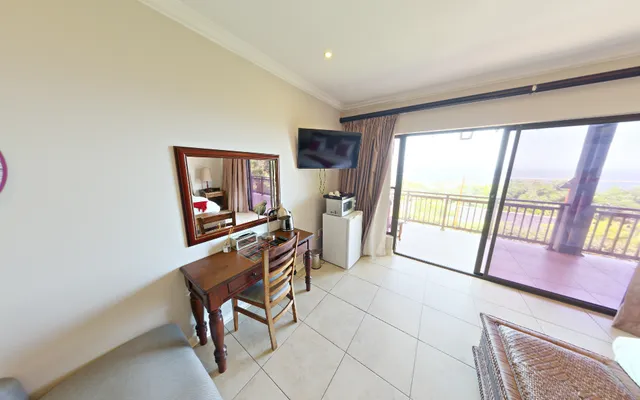
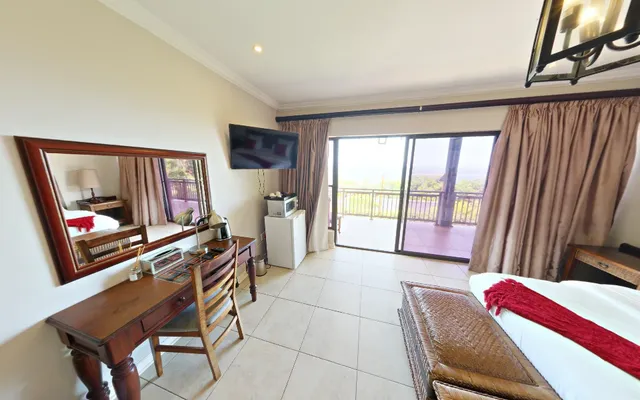
Enable the 360° rooms
- opening views chosen to show the floor (Sunlit Open Living 60°, hotel
  suite 240°, seaview suite 20°), wider default view, looking a little down
- sunlight on new tiles no longer burns out to white

Claude-Session: https://claude.ai/code/session_013FKkYB4U9Gt1xrvg8SHD61

diff --git a/src/components/PanoScene.tsx b/src/components/PanoScene.tsx
@@ -69,6 +69,8 @@ void main() {
   vec3 photo = texture2D(uPano, uv).rgb;
   vec3 m = texture2D(uMask, uv).rgb;
   float shade = texture2D(uShade, uv).r * 2.0;
+  // sunlight brightens the new finish without burning it out to white
+  if (shade > 1.0) shade = 1.0 + (shade - 1.0) * 0.4;
   float c = cos(-uPhi), s = sin(-uPhi);
   vec2 d = vec2(dir.x * c - dir.z * s, dir.x * s + dir.z * c);
   vec3 col = photo * (1.0 - clamp(m.r + m.g + m.b, 0.0, 1.0));
@@ -204,7 +206,7 @@ export default function PanoScene({ room }: { room: PhotoRoom }) {
     const scene = new THREE.Scene()
     scene.add(new THREE.Mesh(new THREE.PlaneGeometry(2, 2), mat))
     const cam = new THREE.Camera()
-    const view = { yaw: (pano.yaw * Math.PI) / 180, pitch: -0.12, fov: 85 }
+    const view = { yaw: (pano.yaw * Math.PI) / 180, pitch: -0.3, fov: 100 }
     const draw = () => {
       const w = wrap.clientWidth
       const h = wrap.clientHeight
